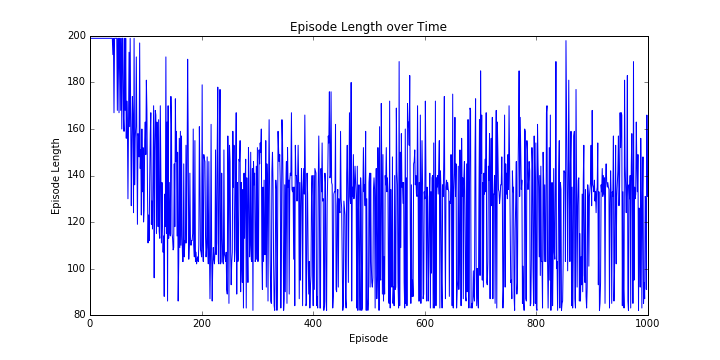
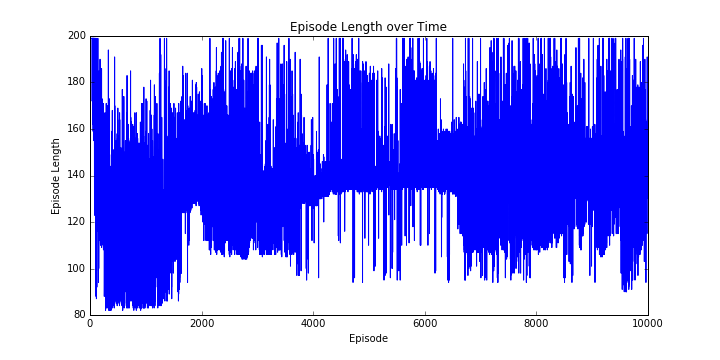
adding new folder

diff --git a/DQN/model.py b/DQN/model.py
@@ -1,0 +1,64 @@
+# -*- coding: utf-8 -*-
+"""
+Created on Wed Dec 13 14:23:42 2017
+
+@author: simon
+"""
+
+
+import torch
+import matplotlib.pyplot as pl
+import torch.nn as nn
+import torch.nn.functional as F
+from torch.autograd import Variable
+import torch.optim as optim
+
+
+class QEstimator(nn.Module):
+    def __init__(self,inputDim=2,outputAction=3,learningRate=0.001):
+        
+        super(QEstimator, self).__init__()
+
+        useCuda=torch.cuda.is_available()
+        self.useCuda=useCuda
+        
+        self.Dense1=nn.Linear(inputDim,8)
+        self.Dense2=nn.Linear(8,16)
+        self.Dense3=nn.Linear(16,32)
+        self.Dense4=nn.Linear(32,64)
+        
+        self.Dense5=nn.Linear(64,32)
+        self.Dense6=nn.Linear(32,16)
+        self.Dense7=nn.Linear(16,8)
+        self.Dense8=nn.Linear(8,outputAction)        
+        
+                   
+        if (self.useCuda):
+            self.cuda()             
+            
+        print('use CUDA : ',self.useCuda)
+        
+        
+        
+        
+        
+        print('model loaded')
+        
+
+ 
+
+    def forward(self,observation):
+        
+        x=self.Dense1(observation)
+        x=self.Dense2(x)
+        x=self.Dense3(x)
+        x=self.Dense4(x)
+        x=self.Dense5(x)
+        x=self.Dense6(x)
+        x=self.Dense7(x)
+        x=self.Dense8(x)
+                 
+        return(x)
+        
+        
+    

diff --git a/FunctionApproximation/linearQLearning.py b/FunctionApproximation/linearQLearning.py
@@ -206,7 +206,7 @@ estimator = Estimator()
 # Note: For the Mountain Car we don't actually need an epsilon > 0.0
 # because our initial estimate for all states is too "optimistic" which leads
 # to the exploration of all states.
-stats = q_learning(env, estimator, 1000, epsilon=0.0)
+stats = q_learning(env, estimator, 10000, epsilon=0.0)
 
 plotting.plot_cost_to_go_mountain_car(env, estimator)
 plotting.plot_episode_stats(stats, smoothing_window=25)

diff --git a/DQN/myDQN.py b/DQN/myDQN.py
@@ -1,0 +1,6 @@
+
+import gym
+import numpy as np
+from matplotlib import pyplot as plt
+
+env = gym.envs.make("Breakout-v0")
